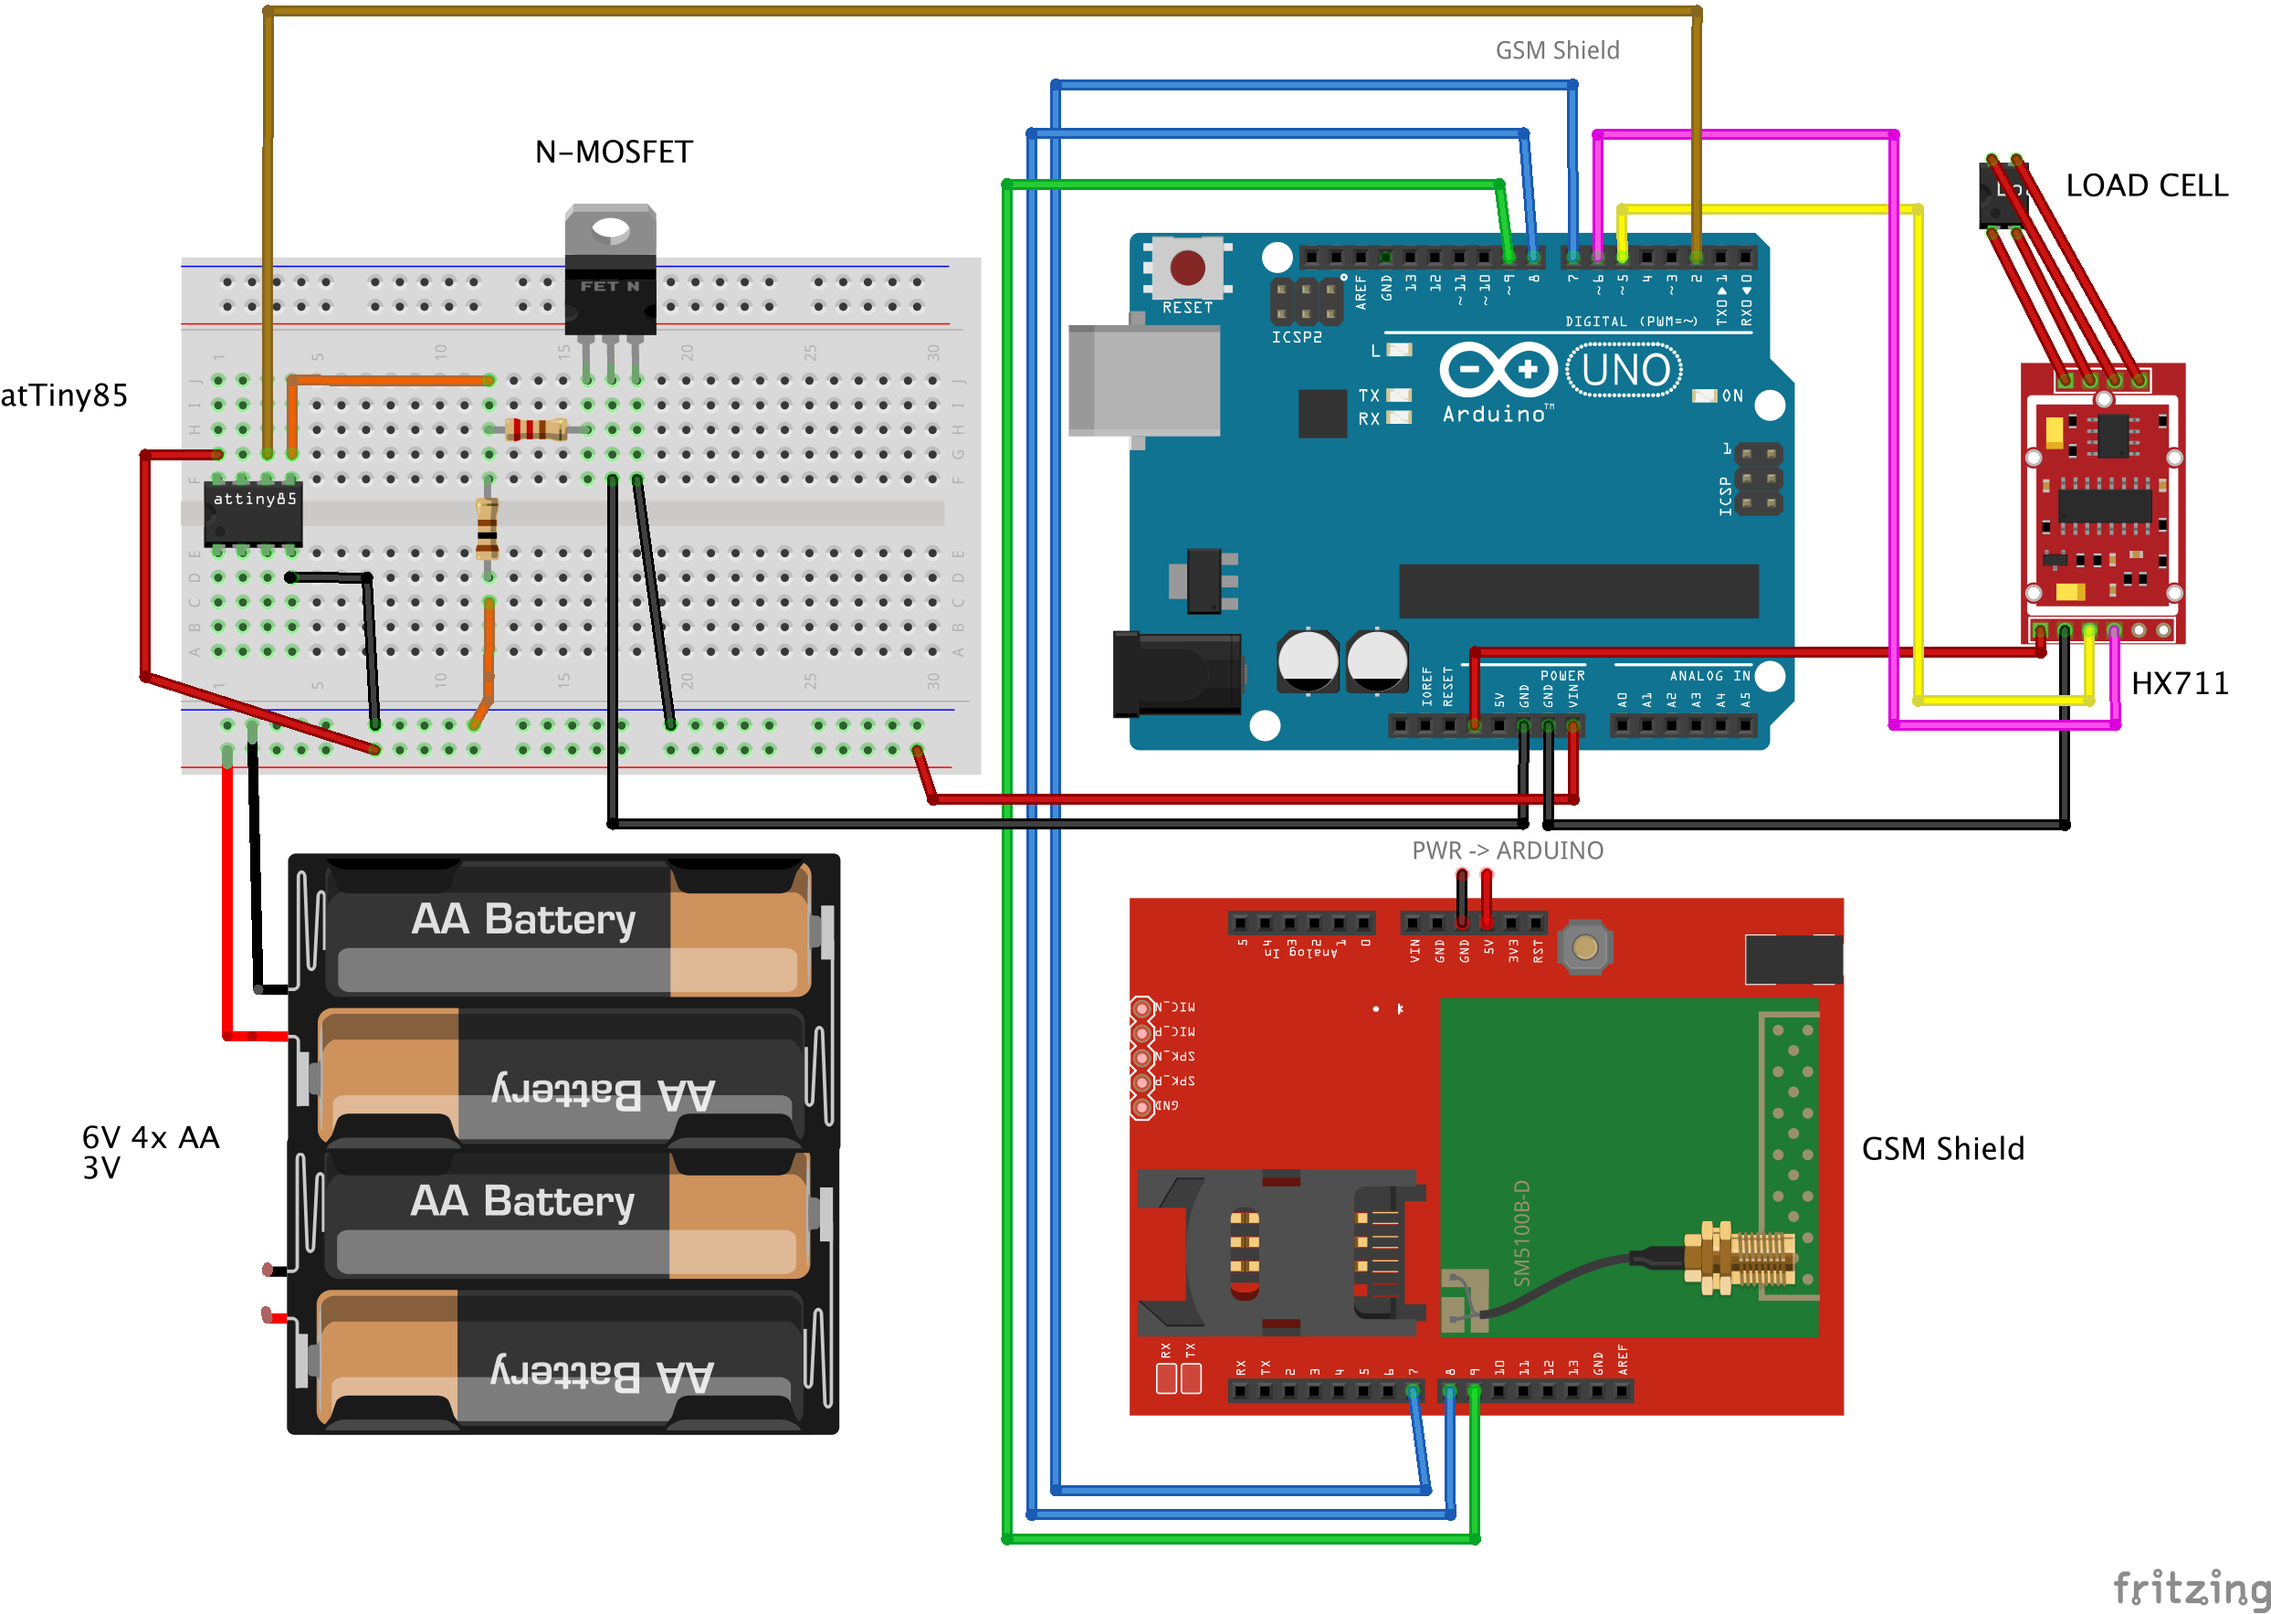
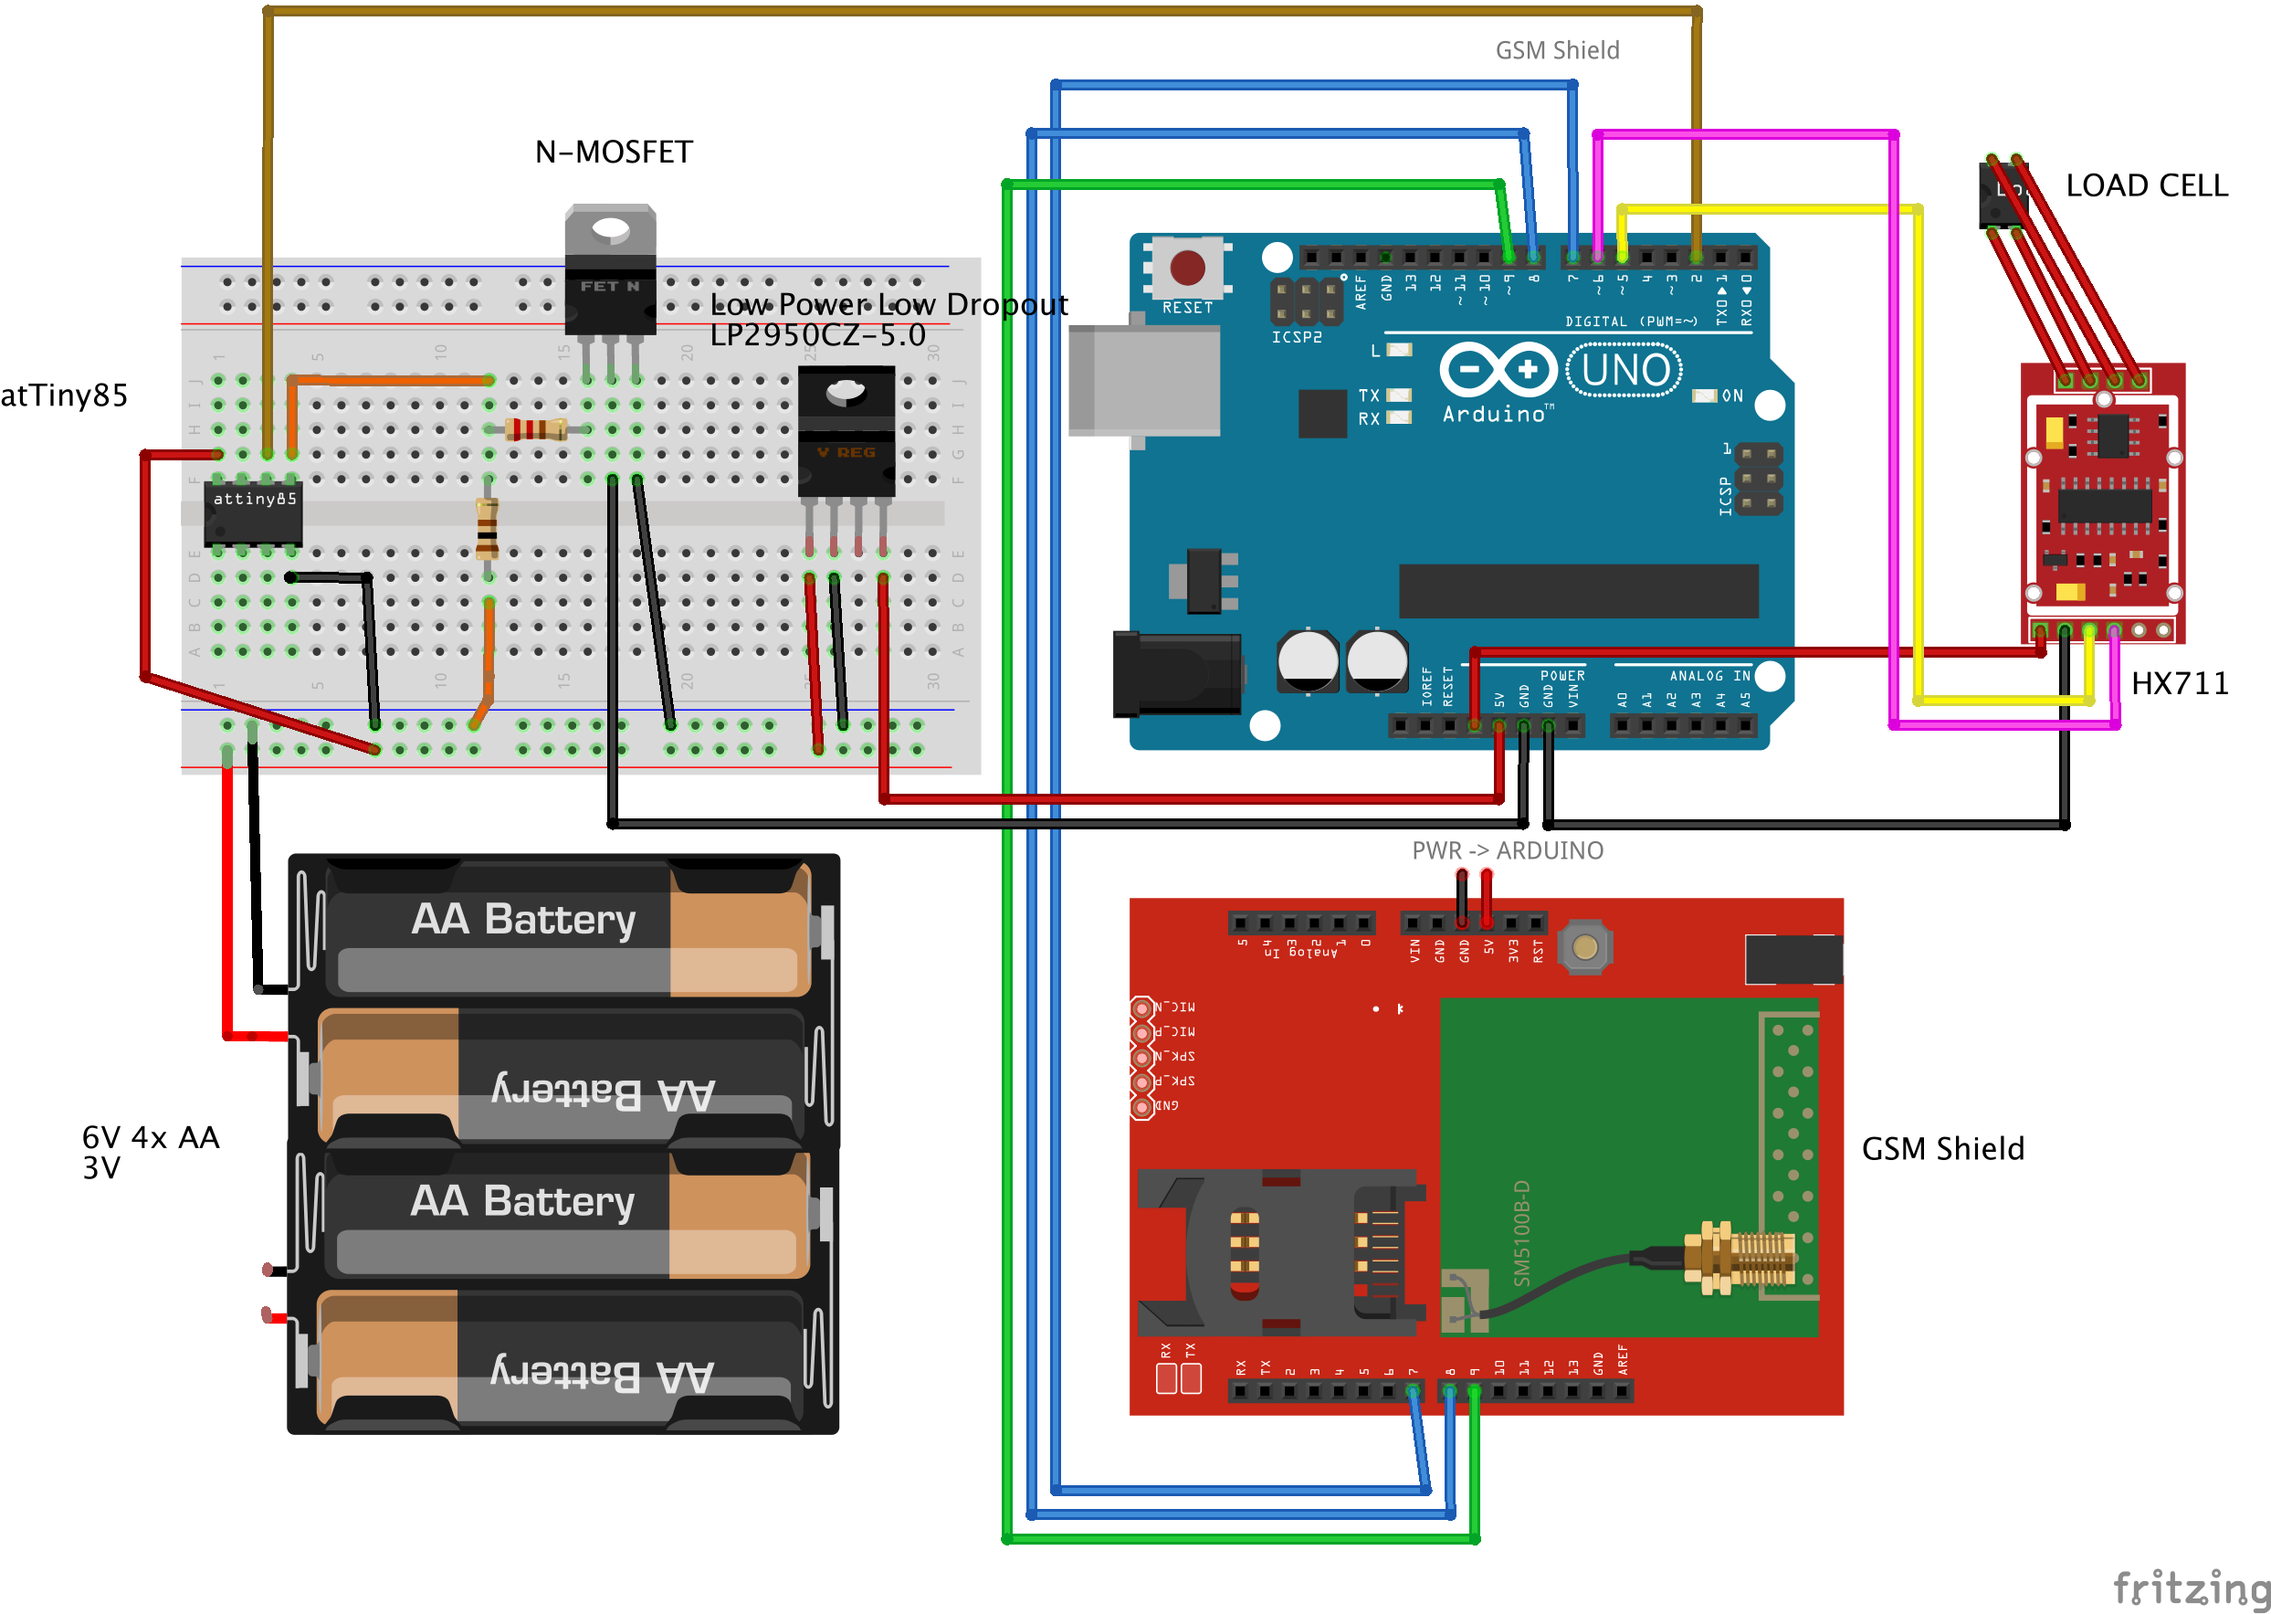
Updated sketch with LPDP module, now we use the 5V pin not VIN on Arduino UNO. Changed Readme

Changed region(s): [[0.3096, 0.1868, 0.4644, 0.498], [0.6502, 0.4358, 0.7121, 0.498]]

diff --git a/README.md b/README.md
@@ -10,10 +10,11 @@ Small Arduino Project for a DIY beehive scale, with SIM900 commands to send to w
 * N-Mosfet ([Ebay ca. < € 1,00](http://www.ebay.at/itm/5-BUZ11-Fairchild-MOSFET-Transistor-50V-30A-75W-0-04R-854773-/311597076091?hash=item488ca20e7b:g:O3AAAOSwLVZVyb-J))
 * HX711 Sensor ([Ebay China < € 1,00](http://www.ebay.at/itm/5PCS-Weighing-Sensor-AD-Module-Dual-channel-24-bit-A-D-Conversion-HX711-Shieding-/272298400315?hash=item3f663fda3b:g:zKkAAOSwEjFXfP2J))
 * < 200kg platform load cell ([AliExpress ca. € 17,00](http://de.aliexpress.com/item/1PCS-X-100KG-150KG-electronic-platform-scale-load-cell-pressure-balanced-cantilever-load-weight-sensor/1743007676.html))
+* LPDP 5V ([Ebay ca. € 1,00](http://www.ebay.at/itm/LP2950CZ-5-0-LowDrop-Spannungsregler-5V-0-1A-TO92-/112028436978?hash=item1a156a49f2:g:itQAAOSwjXRXYUp4))
 
 and battery case, batteries, resistors, jumper wire, scale plattform, Total cost is under € 100,00.
 
-# Dirty Build: 
+# Dirty Build:
 ![Fritzing](https://github.com/HannesOberreiter/bScale/blob/master/img/Sketch_Steckplatine.png?raw=true "Sketch Fritzing")
 
 
@@ -57,6 +58,10 @@ My father for help with the electronics.
 
 * 2016-08-30 First field test the battery would handle 10 days. With each 30 minutes open the mosfet for 1 minute. Changed the code to only open the gate each 2 hours and the UNO will tell the atTiny when it is finsihed. Lets see how much of an improvment this will give us. Upload works fine, data also seems ok, Hannes.
 * 2016-10-18 Second field test, with the new code (each 2 hours) did the battery last for 50 days. The battery still has power but not enough to open the GSM connection. I will try now instead of alkaline batteries lithium batteries. They should work better with the spike of energy needed for the GSM connection
+
+# Updates
+
+* 2017-01-01 Added low Power low Dropout into sketch, with this we can now safety use the 5V Pin on Arduino. Because I had some problems with the VIN Pin on cheap Arduinos.
 
 # License
 GNU GPLv3
